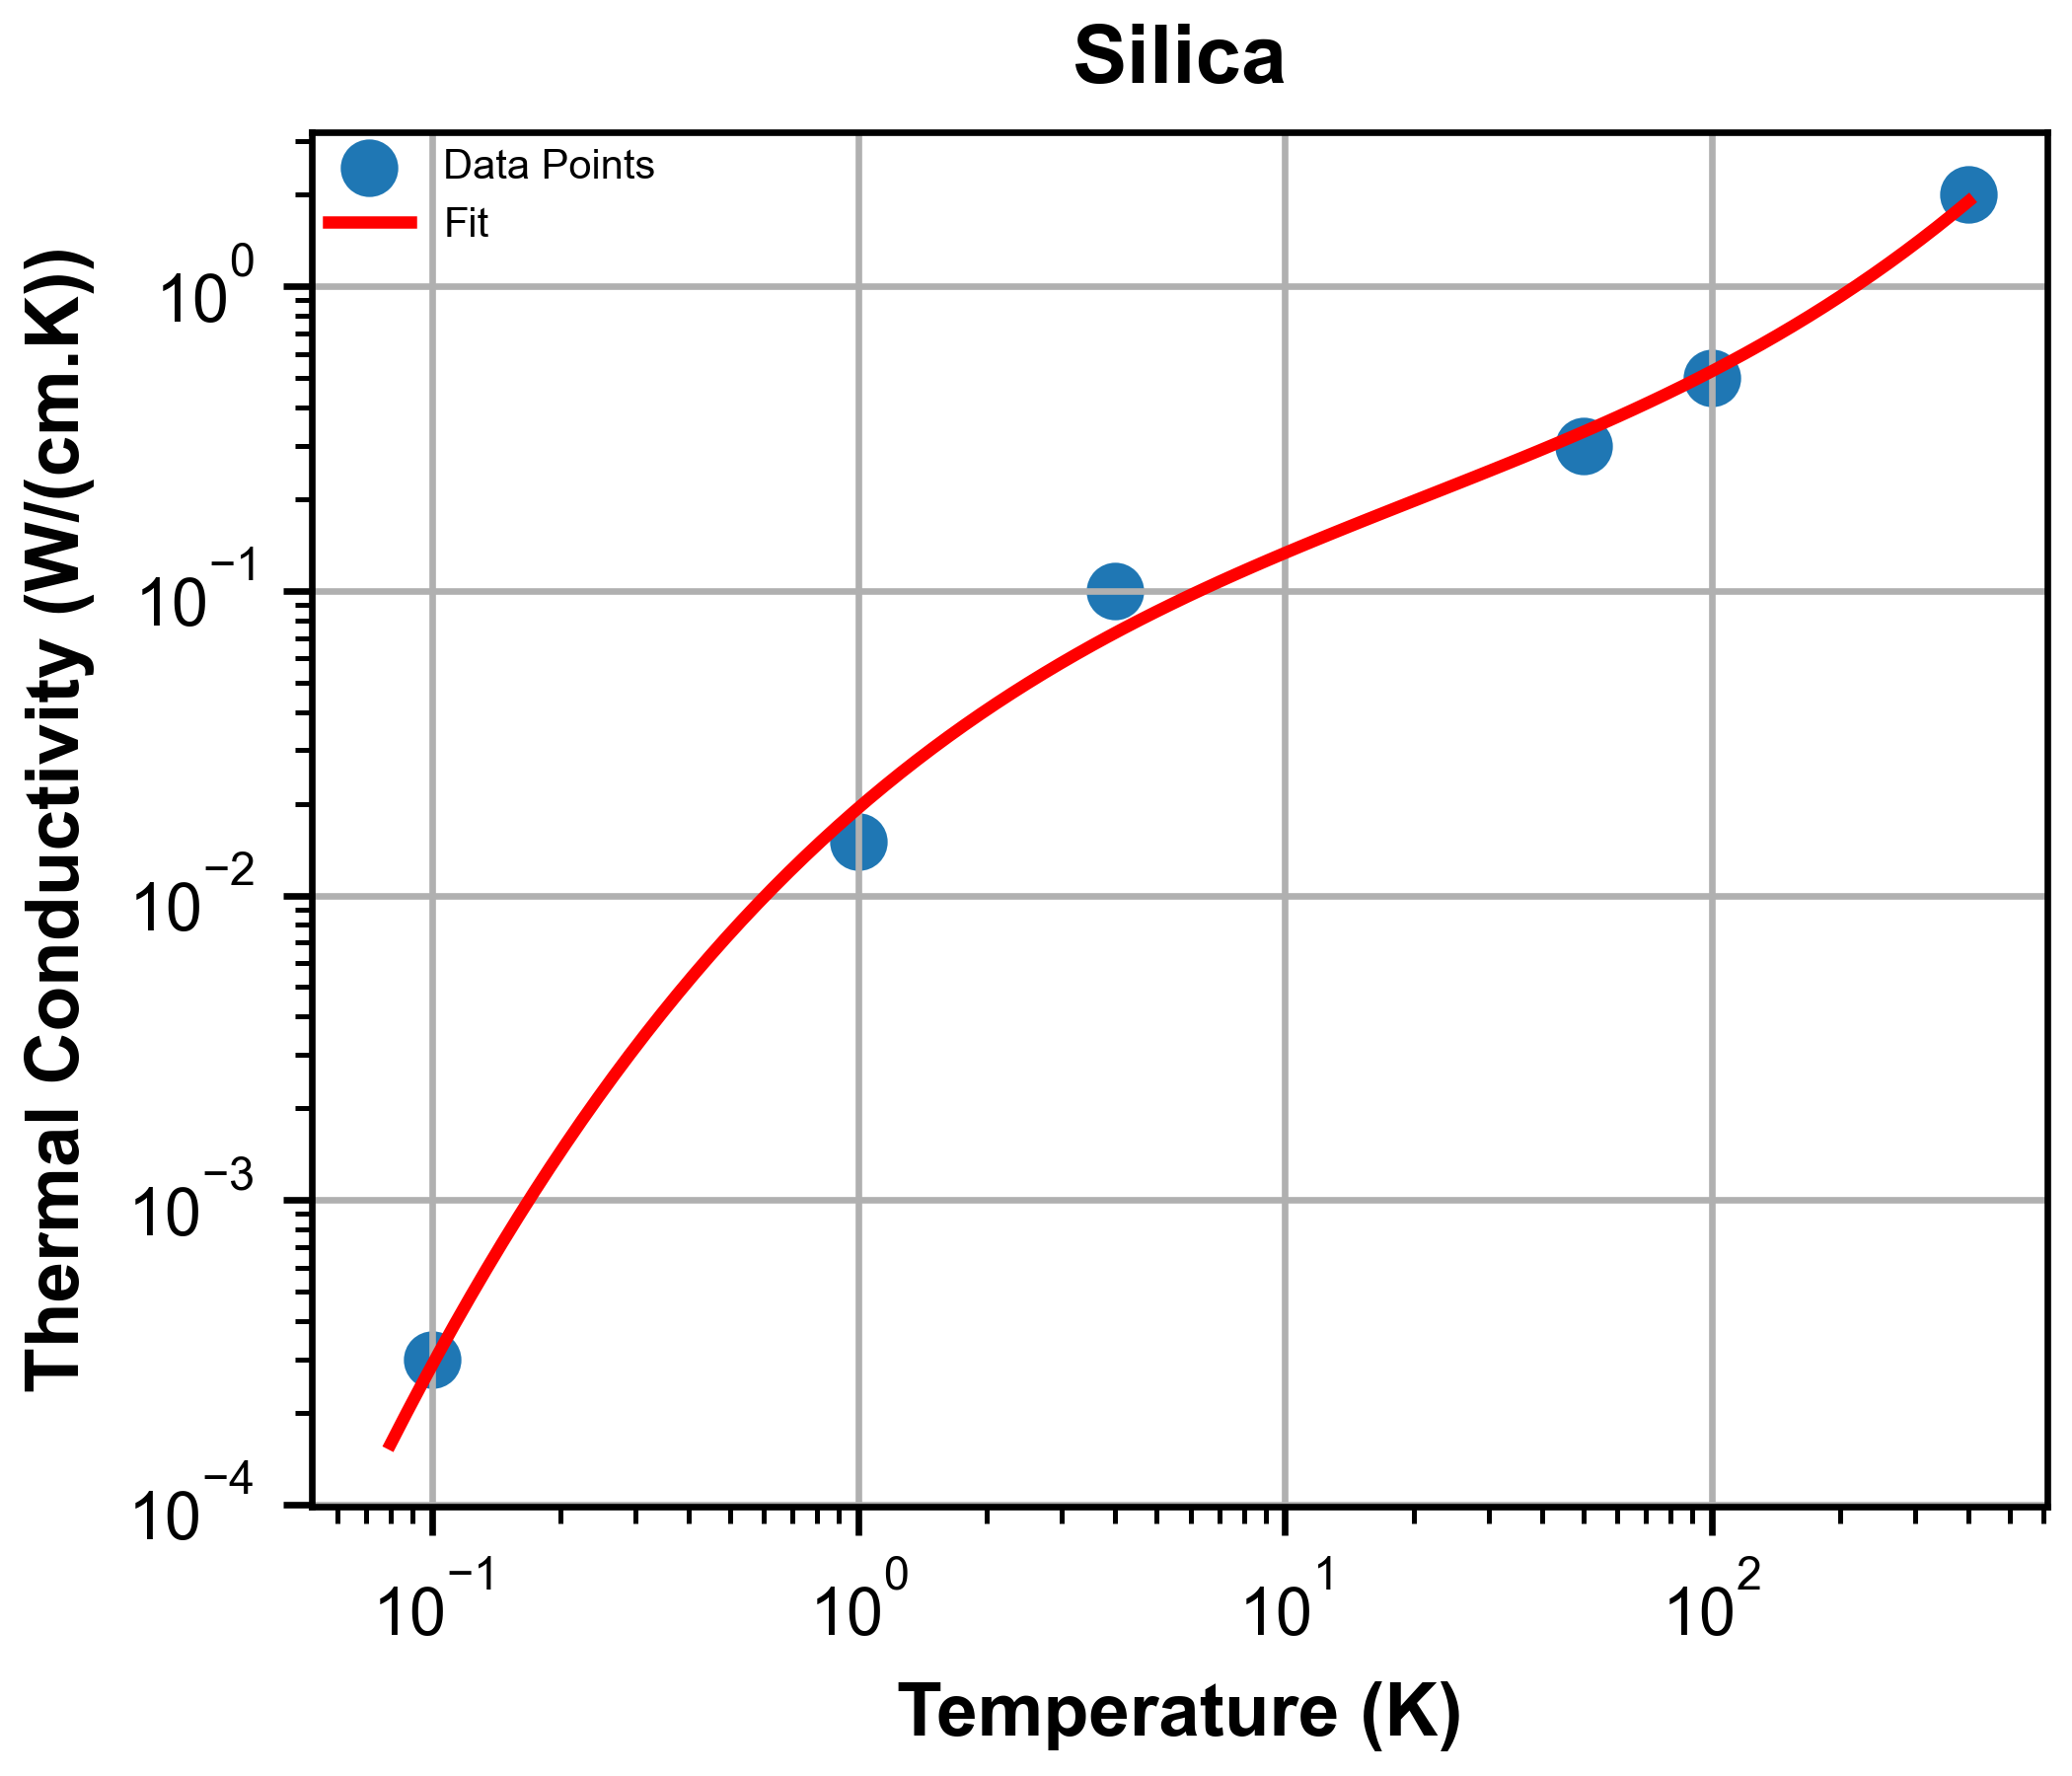
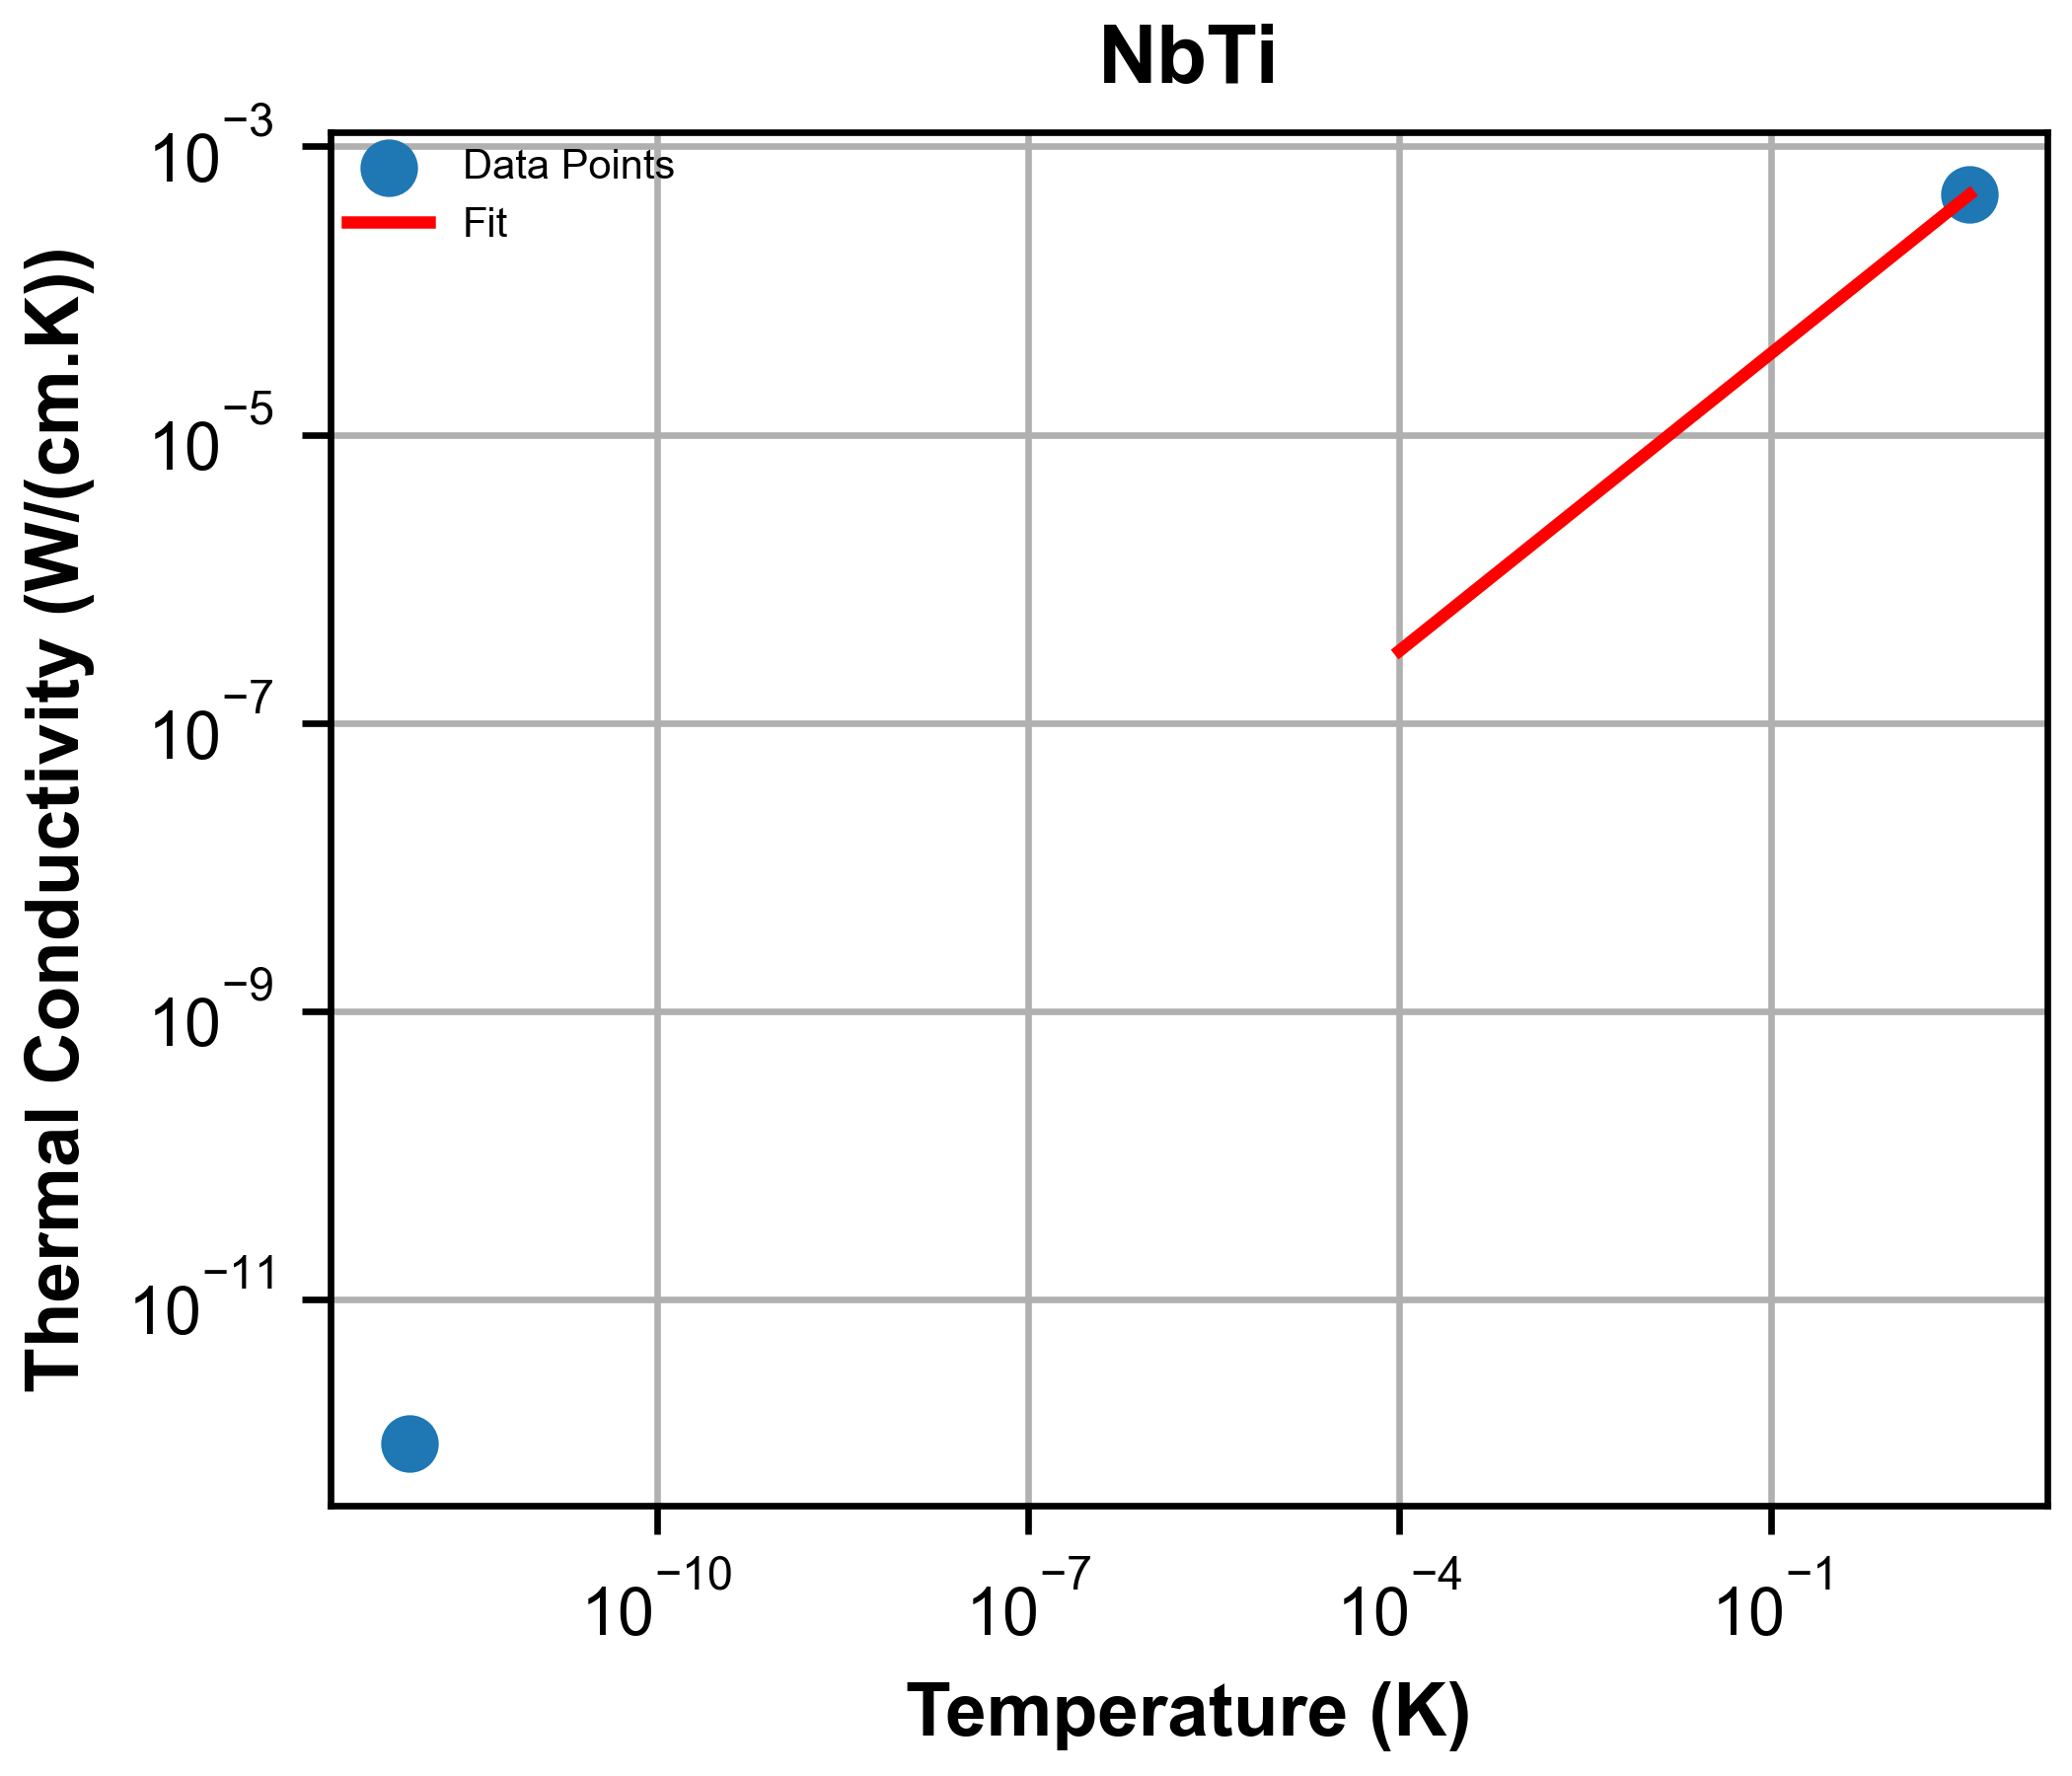
added nbti cable modeling

diff --git a/library/cables.py b/library/cables.py
@@ -25,6 +25,10 @@ PHL_Fiber_Still=2.58114e-08
 PHL_Fiber_CP=2.02211e-09
 PHL_Fiber_MXC=1.89649e-12
 
+PHL_NbTi_Still=3.84088e-05
+PHL_NbTi_CP=7.18361e-06
+PHL_NbTi_MXC=2.12527e-07
+
 
 ####### 2019krinnerEngineeringCryogenicSetups - Fig 1 ##########
 # Values are for TWP i.e., two strands of cables